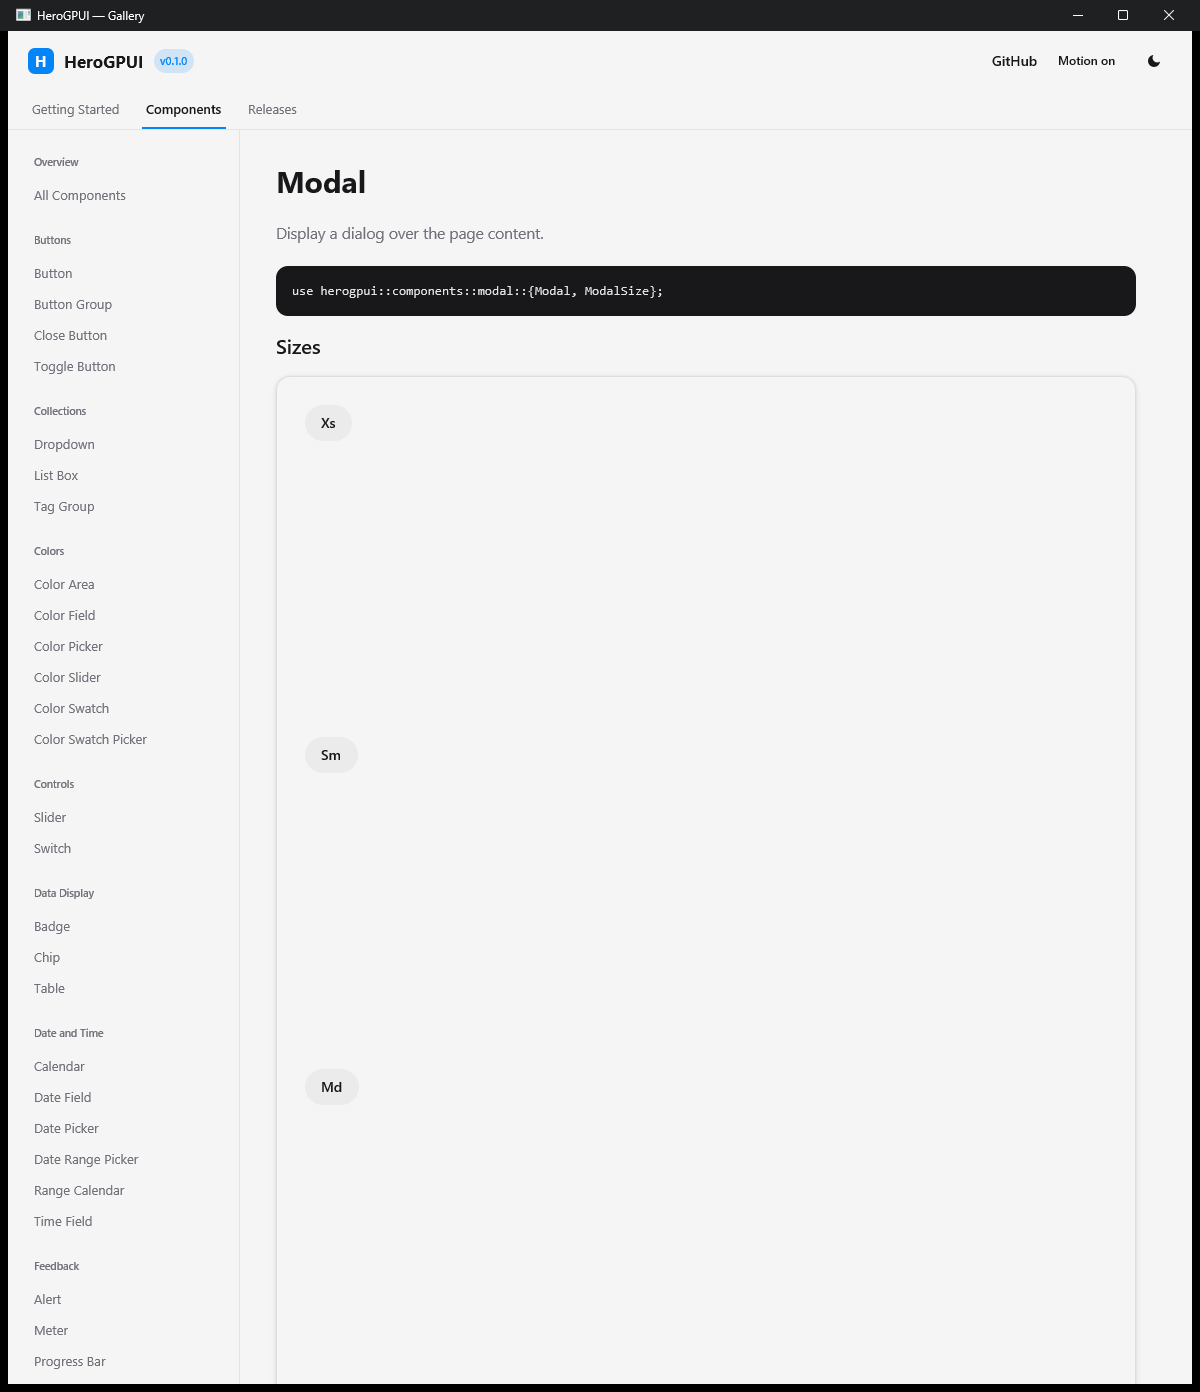
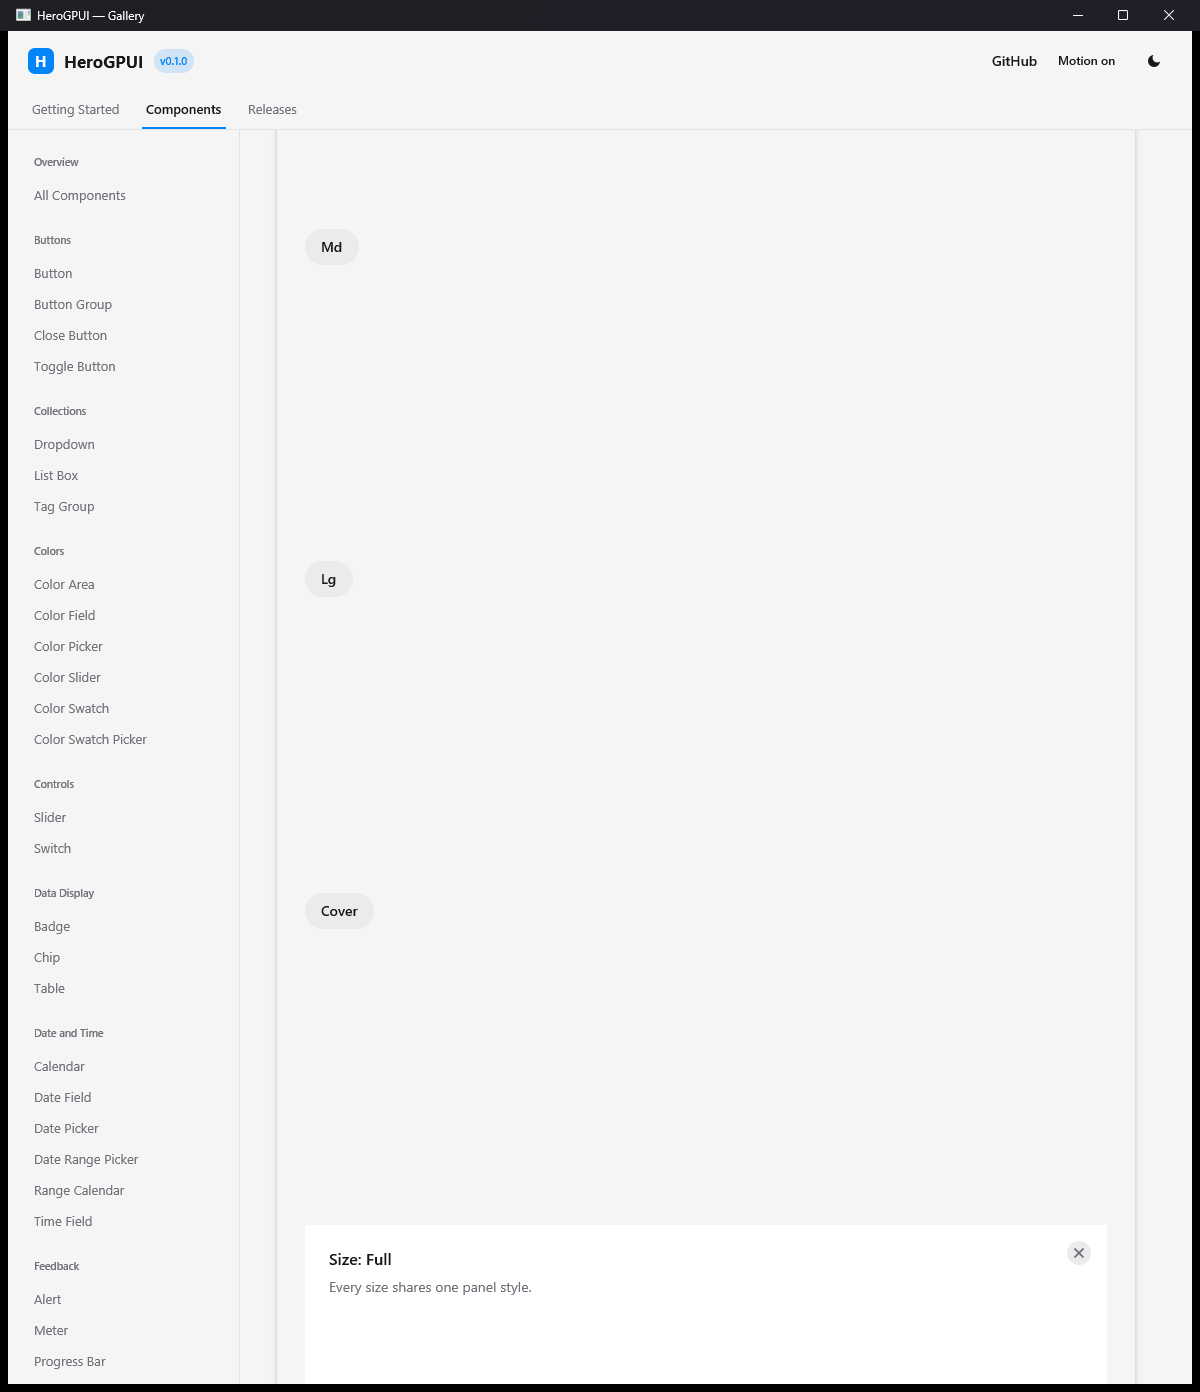
Finish Modal full-size layout parity

Changed region(s): [[0.2158, 0.1236, 0.9558, 0.2471], [0.2775, 0.8958, 0.3392, 0.9267]]

diff --git a/crates/herogpui-components/tests/placement.rs b/crates/herogpui-components/tests/placement.rs
@@ -725,6 +725,35 @@ fn modal_every_size_opens_and_dismisses(cx: &mut TestAppContext) {
 }
 
 #[gpui::test]
+fn modal_full_covers_every_viewport_edge_without_backdrop_dismissal(cx: &mut TestAppContext) {
+    still();
+    let closes = events();
+    let recorded = closes.clone();
+    let cx = open_host(cx, move || {
+        let recorded = recorded.clone();
+        Modal::new()
+            .id("pl-modal-full-edges")
+            .is_open(true)
+            .is_dismissible(true)
+            .size(ModalSize::Full)
+            .child(gpui::div().child("body"))
+            .on_open_change(move |v, _, _| recorded.borrow_mut().push(format!("open:{v}")))
+            .into_any_element()
+    });
+
+    for (x, y) in [(8., 8.), (1912., 8.), (8., 1072.), (1912., 1072.)] {
+        click(cx, x, y);
+    }
+    press(cx, "escape");
+
+    assert_eq!(
+        closes.borrow().as_slice(),
+        ["open:false"],
+        "no Full corner is dismissible backdrop, while Escape still proves the dialog is live"
+    );
+}
+
+#[gpui::test]
 fn modal_long_body_scrolls_to_reach_the_deepest_control(cx: &mut TestAppContext) {
     still();
     let hits = events();
@@ -805,6 +834,69 @@ fn modal_long_body_scrolls_to_reach_the_deepest_control(cx: &mut TestAppContext)
 }
 
 #[gpui::test]
+fn modal_cover_inside_scroll_reaches_the_deepest_control(cx: &mut TestAppContext) {
+    still();
+    let hits = events();
+    let probed = hits.clone();
+    let closes = events();
+    let recorded = closes.clone();
+
+    let cx = open_host(cx, move || {
+        let recorded = recorded.clone();
+        let mut body = gpui::div().flex().flex_col().gap(px(10.));
+        for i in 0..24 {
+            let label = format!("p{i}");
+            let click_label = label.clone();
+            let hit = hits.clone();
+            body = body.child(
+                gpui::div()
+                    .id(gpui::SharedString::from(format!("pl-cover-probe-{i}")))
+                    .w_full()
+                    .h(px(36.))
+                    .flex()
+                    .items_center()
+                    .justify_center()
+                    .cursor_pointer()
+                    .on_click(move |_, _, _| hit.borrow_mut().push(click_label.clone()))
+                    .child(label),
+            );
+        }
+        Modal::new()
+            .id("pl-modal-cover-scroll")
+            .is_open(true)
+            .is_dismissible(true)
+            .size(ModalSize::Cover)
+            .child(body)
+            .on_open_change(move |v, _, _| recorded.borrow_mut().push(format!("open:{v}")))
+            .into_any_element()
+    });
+
+    // Cover retains the 40px container inset; its first row therefore starts
+    // at 40 + 24px panel padding + half the row height.
+    click(cx, 960., 82.);
+    assert_eq!(probed.borrow().as_slice(), ["p0"]);
+
+    for _ in 0..6 {
+        wheel(cx, 960., 500., -1000.);
+    }
+    let mut y = 500.;
+    while y < 1030. {
+        click(cx, 960., y);
+        y += 55.;
+    }
+
+    assert!(
+        closes.borrow().is_empty(),
+        "Cover's retained inset must not clip the Inside body or expose backdrop"
+    );
+    assert!(
+        probed.borrow().iter().any(|hit| hit == "p23"),
+        "the deepest Cover row must remain reachable; recorded: {:?}",
+        probed.borrow().as_slice()
+    );
+}
+
+#[gpui::test]
 fn modal_outside_scroll_keeps_each_placement_top_reachable(cx: &mut TestAppContext) {
     still();
     for placement in [
@@ -854,6 +946,72 @@ fn modal_outside_scroll_keeps_each_placement_top_reachable(cx: &mut TestAppConte
             "{placement:?}: the first row of a tall Outside dialog must remain reachable"
         );
     }
+}
+
+#[gpui::test]
+fn modal_full_outside_scroll_keeps_deep_content_reachable(cx: &mut TestAppContext) {
+    still();
+    let hits = events();
+    let probed = hits.clone();
+    let closes = events();
+    let recorded = closes.clone();
+
+    let cx = open_host(cx, move || {
+        let recorded = recorded.clone();
+        let mut body = gpui::div().flex().flex_col().gap(px(10.));
+        for i in 0..40 {
+            let label = format!("p{i}");
+            let click_label = label.clone();
+            let recorded = hits.clone();
+            body = body.child(
+                gpui::div()
+                    .id(gpui::SharedString::from(format!(
+                        "pl-full-outside-probe-{i}"
+                    )))
+                    .w_full()
+                    .h(px(36.))
+                    .flex()
+                    .items_center()
+                    .justify_center()
+                    .cursor_pointer()
+                    .on_click(move |_, _, _| recorded.borrow_mut().push(click_label.clone()))
+                    .child(label),
+            );
+        }
+        Modal::new()
+            .id("pl-modal-full-outside")
+            .is_open(true)
+            .is_dismissible(true)
+            .size(ModalSize::Full)
+            .scroll(ModalScroll::Outside)
+            .child(body)
+            .on_open_change(move |v, _, _| recorded.borrow_mut().push(format!("open:{v}")))
+            .into_any_element()
+    });
+
+    // Full removes the container's 40px inset, so the first row starts at the
+    // panel's 24px padding plus half its 36px height.
+    click(cx, 960., 42.);
+    assert_eq!(probed.borrow().as_slice(), ["p0"]);
+
+    for _ in 0..12 {
+        wheel(cx, 960., 500., -1000.);
+    }
+    let mut y = 500.;
+    while y < 1060. {
+        click(cx, 960., y);
+        y += 55.;
+    }
+
+    assert!(
+        closes.borrow().is_empty(),
+        "Full Outside content must enlarge the panel and scroll, not expose backdrop"
+    );
+    assert!(
+        probed.borrow().iter().any(|hit| hit == "p39"),
+        "the deepest Full Outside row must remain reachable; recorded: {:?}",
+        probed.borrow().as_slice()
+    );
 }
 
 #[gpui::test]

diff --git a/gallery/src/pages/reference_metadata.rs b/gallery/src/pages/reference_metadata.rs
@@ -7452,6 +7452,13 @@ const MODAL_STYLING: &[StyleDoc] = &[
         status: ImplementationStatus::Implemented,
     },
     StyleDoc {
+        class_or_token: ".modal__container--full",
+        value: "p-0 sm:p-0",
+        description: "Full removes the desktop container inset so its dialog reaches every viewport edge.",
+        rust: "overlay p(px(40.)).when(ModalSize::Full, p(px(0.)))",
+        status: ImplementationStatus::Implemented,
+    },
+    StyleDoc {
         class_or_token: ".modal__dialog",
         value: "relative; flex w-full flex-col; bg-overlay shadow-overlay outline-none; border-radius min(32px, var(--radius-3xl)); p-6; pointer-events-auto",
         description: "Panel surface: overlay background and shadow with the floating-panel radius and a uniform 24px inset.",
@@ -7482,8 +7489,8 @@ const MODAL_STYLING: &[StyleDoc] = &[
     StyleDoc {
         class_or_token: ".modal__dialog--scroll-outside",
         value: "h-auto min-h-0 shrink-0",
-        description: "The dialog stays content-sized and the surrounding container scrolls; the port's auto-height panel needs no min-h-0/shrink-0 for that.",
-        rust: "no panel cap; container overflow_y_scroll under ModalScroll::Outside",
+        description: "The dialog stays content-sized and cannot flex-shrink, so tall content creates scroll range on the surrounding container.",
+        rust: "no panel cap + flex_shrink_0; container overflow_y_scroll under ModalScroll::Outside",
         status: ImplementationStatus::Implemented,
     },
     StyleDoc {
@@ -7496,16 +7503,16 @@ const MODAL_STYLING: &[StyleDoc] = &[
     StyleDoc {
         class_or_token: ".modal__dialog--cover",
         value: "h-full min-h-full w-full",
-        description: "Fills the viewport width; v3 also stretches the panel to the viewport height, and the port's content-sized panel centres instead.",
-        rust: "ModalSize::Cover -> w_full",
-        status: ImplementationStatus::Partial,
+        description: "Fills the definite-height Inside container on both axes while retaining the normal floating-panel radius and shadow; under Outside, v3's auto-height container leaves it content-sized.",
+        rust: "ModalSize::Cover -> w_full; Inside adds h_full + min_h_full",
+        status: ImplementationStatus::Implemented,
     },
     StyleDoc {
         class_or_token: ".modal__dialog--full",
         value: "h-full min-h-full w-full; rounded-none shadow-none",
-        description: "Width fills the container and the shadow drops; the shared animation wrapper restores rounded corners, while the viewport-height stretch and edge-to-edge container of v3 are not reproduced.",
-        rust: "ModalSize::Full -> w_full + no shadow; ZoomBox radius remains",
-        status: ImplementationStatus::Partial,
+        description: "Fills the edge-to-edge Inside container on both axes and drops the floating-panel radius and shadow; Outside remains content-sized so its container can scroll.",
+        rust: "ModalSize::Full -> w_full + no radius/shadow; Inside adds h_full + min_h_full",
+        status: ImplementationStatus::Implemented,
     },
     StyleDoc {
         class_or_token: ".modal__header",
@@ -7608,9 +7615,9 @@ const MODAL_STYLING: &[StyleDoc] = &[
     StyleDoc {
         class_or_token: ".modal__container--full[data-entering=\"true\"] / [data-exiting=\"true\"]",
         value: "slide-in-from-bottom-0 zoom-in-100 / zoom-out-100",
-        description: "Full skips width scaling in both implementations; the port's shared wrapper still lerps container_radius and leaves the open Full panel rounded.",
-        rust: "entering_zoom / exiting with width None and radius Some(container_radius)",
-        status: ImplementationStatus::Partial,
+        description: "Full has no slide or geometric zoom in either implementation; only the shared fade remains.",
+        rust: "entering_zoom / exiting with ZoomBox width and radius both None",
+        status: ImplementationStatus::Implemented,
     },
 ];
 

diff --git a/crates/herogpui-components/src/modal.rs b/crates/herogpui-components/src/modal.rs
@@ -358,7 +358,13 @@ impl RenderOnce for Modal {
         // footer claim their own space from the flex layout before the body's
         // max height ever binds.
         let scroll_inside = self.scroll == ModalScroll::Inside;
-        let inside_body_max = window.viewport_size().height - px(48.);
+        let inside_body_max = window.viewport_size().height
+            - px(48.)
+            - if self.size == ModalSize::Cover {
+                px(80.)
+            } else {
+                px(0.)
+            };
         // `.modal__dialog`: `w-full` with a `max-w-*` per size, `p-6`, and the
         // floating-panel radius. `Full` drops the radius and the shadow.
         let full = self.size == ModalSize::Full;
@@ -380,6 +386,11 @@ impl RenderOnce for Modal {
                 gpui::Styled::mt_auto,
             )
             .when_some(self.size.max_width(), |e, w| e.max_w(w))
+            .when(
+                scroll_inside && matches!(self.size, ModalSize::Cover | ModalSize::Full),
+                |e| e.h_full().min_h_full(),
+            )
+            .when(self.scroll == ModalScroll::Outside, |e| e.flex_shrink_0())
             .p(px(24.))
             .when(self.scroll == ModalScroll::Inside, |e| {
                 e.max_h(window.viewport_size().height)
@@ -503,6 +514,7 @@ impl RenderOnce for Modal {
         .flex()
         // `.modal__container` is `p-4 sm:p-10`.
         .p(px(40.))
+        .when(full, |e| e.p(px(0.)))
         // `Outside` scrolls here -- the dialog grows and this container moves.
         // `Inside` has the body's own scroller instead; keeping this one would
         // put two scroll containers under the pointer, and a wheel over the
@@ -570,10 +582,11 @@ impl RenderOnce for Modal {
             )
         });
         let zoom = crate::anim::ZoomBox {
-            // The zoom needs a width to scale geometrically; `Cover` and `Full`
-            // have none of their own, so the container's is as close as it gets.
+            // Fixed-width presets scale geometrically. `Cover` and `Full` have
+            // no width here; Full also has no radius, so its zoom-100 rule is
+            // the shared fade with no geometric interpolation.
             width: self.size.max_width(),
-            radius: Some(crate::util::container_radius(cx)),
+            radius: (!full).then(|| crate::util::container_radius(cx)),
             ..Default::default()
         };
         overlay = overlay.child(if exiting {

diff --git a/gallery/src/pages/reference.rs b/gallery/src/pages/reference.rs
@@ -1315,7 +1315,7 @@ impl Widget {
     }
 
     #[test]
-    fn modal_metadata_keeps_compound_parts_and_full_size_gaps_explicit() {
+    fn modal_metadata_tracks_compound_parts_and_full_size_parity() {
         let metadata = reference_metadata::for_route(
             "Modal",
             "use herogpui::components::modal::{Modal, ModalSize};",
@@ -1341,12 +1341,13 @@ impl Widget {
             }));
         }
         for class_or_token in [
+            ".modal__container--full",
             ".modal__dialog--full",
             ".modal__container--full[data-entering=\"true\"] / [data-exiting=\"true\"]",
         ] {
             assert!(metadata.styling.iter().any(|entry| {
                 entry.class_or_token == class_or_token
-                    && entry.status == reference_metadata::ImplementationStatus::Partial
+                    && entry.status == reference_metadata::ImplementationStatus::Implemented
             }));
         }
         assert!(metadata.styling.iter().any(|entry| {

diff --git a/.shots/design_audit.py b/.shots/design_audit.py
@@ -672,7 +672,7 @@ CHECKS = [
     # a padded body and a padded footer with a separator between them -- a shape
     # v3 does not have -- so every number here was wrong at once.
     ('modal', '.modal__dialog', 'p', 'Modal dialog p-6', SRC + 'modal.rs',
-     r'\.when_some\(self\.size\.max_width\(\), \|e, w\| e\.max_w\(w\)\)\s*\n\s*\.p\(px\((\d+(?:\.\d*)?)\.\)\)', None),
+     r'let panel = gpui::div\(\)\s*\.relative\(\)[\s\S]*?\.p\(px\((\d+(?:\.\d*)?)\.\)\)', None),
     ('modal', '.modal__header', 'gap', 'Modal header gap-3', SRC + 'modal.rs',
      r'let header = if self\.title[\s\S]*?\.gap\(px\((\d+(?:\.\d*)?)\.\)\)', None),
     ('modal', '.modal__heading', 'text', 'Modal heading text-base', SRC + 'modal.rs',
